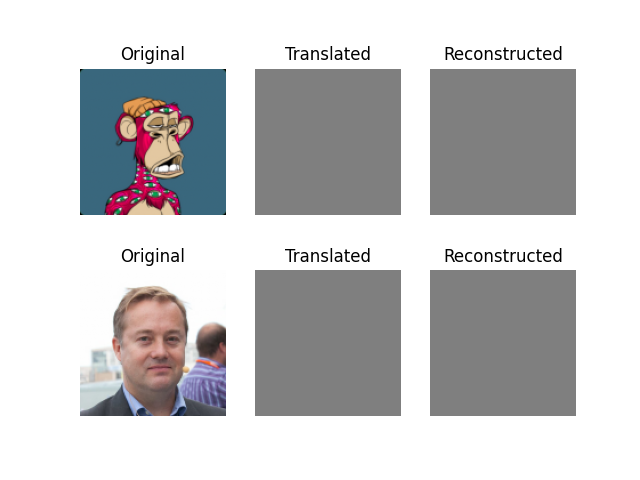
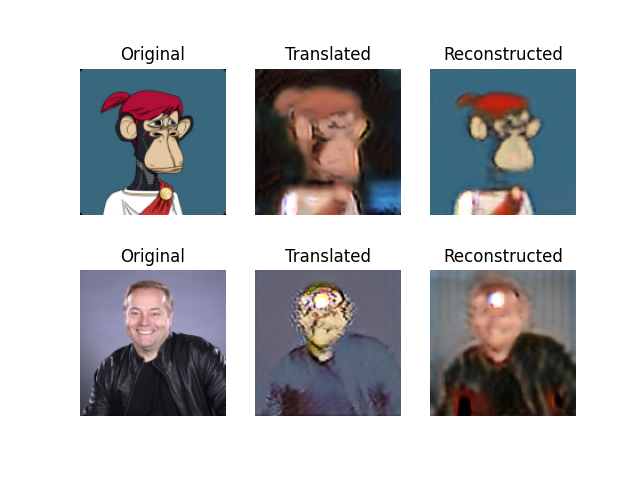
added aggressive aug_pipeline for ape images

diff --git a/data_loader.py b/data_loader.py
@@ -6,6 +6,13 @@ from imageio import imread
 from skimage.transform import resize
 import albumentations as A
 
+# https://albumentations-demo.herokuapp.com
+aug_pipeline_aggressive = A.Compose([
+    A.ShiftScaleRotate(),
+    A.GridDistortion(p=0.5, num_steps=5),
+    A.Cutout(p=0.5, num_holes=8, max_h_size=8, max_w_size=8),
+    A.ChannelShuffle(p=0.5)
+])
 aug_pipeline = A.Compose([
     A.ShiftScaleRotate(),
 ])
@@ -89,7 +96,7 @@ class DataLoader():
                 if not is_testing and np.random.random() > 0.5:
                         #img_A = np.fliplr(img_A)
                         #img_B = np.fliplr(img_B)
-                        augmented = aug_pipeline(
+                        augmented = aug_pipeline_aggressive(
                             image=img_A,
                         )
                         img_A = augmented['image']
